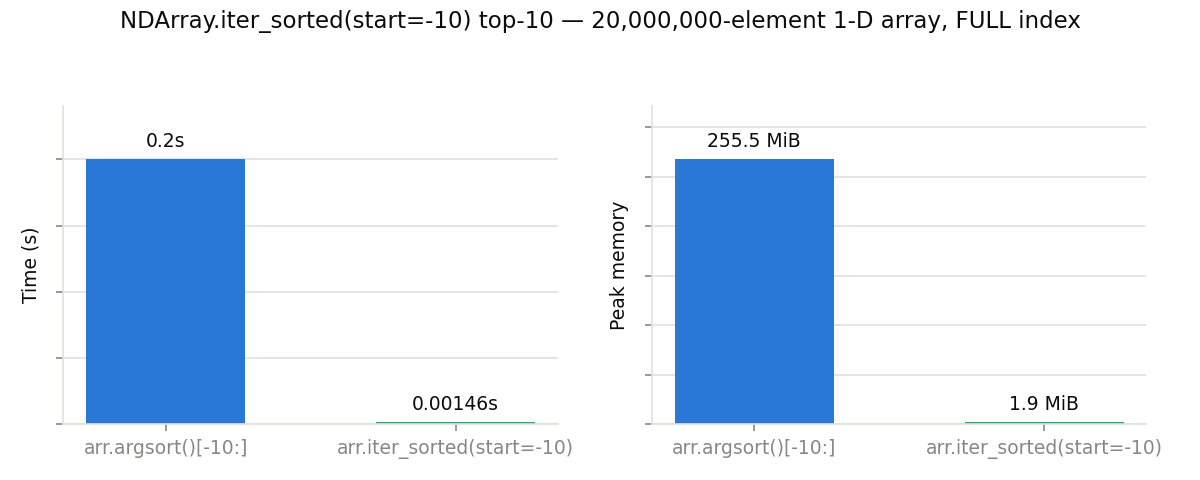
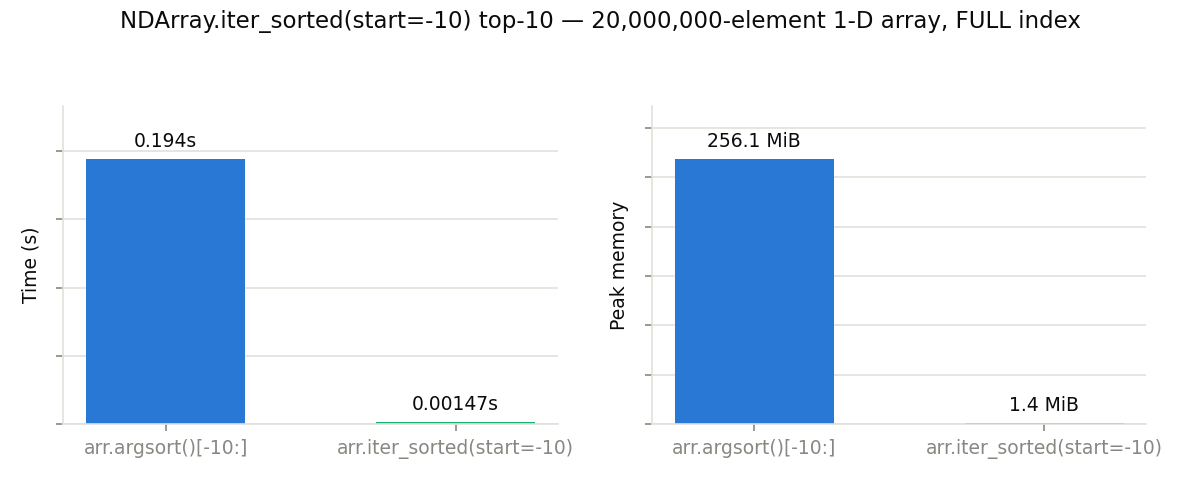
Updated figures and plots for optim tips guide

diff --git a/doc/guides/optimization_tips.md b/doc/guides/optimization_tips.md
@@ -18,7 +18,7 @@ a = blosc2.linspace(0, 1, N)
 
 ![blosc2.linspace() vs asarray(np.linspace())](optim_tips/tip_01_constructors.png)
 
-At 200M float64 elements, the constructor was **~1.6x faster** and used **~17x less peak memory**, and the memory gap widens with array size — the naive path's memory is O(N), while the constructor's stays roughly O(chunk size) for compressible enough data. The same applies to {func}`arange() <blosc2.arange>` and {func}`fromiter() <blosc2.fromiter>`.
+At 200M float64 elements, the constructor was **~1.5x faster** and used **~16x less peak memory**, and the memory gap widens with array size — the naive path's memory is O(N), while the constructor's stays roughly O(chunk size) for compressible enough data. The same applies to {func}`arange() <blosc2.arange>` and {func}`fromiter() <blosc2.fromiter>`.
 
 *Benchmark for this tip: [`tip_01_constructors.py`](https://github.com/Blosc/python-blosc2/blob/main/bench/optim_tips/tip_01_constructors.py)*
 
@@ -40,7 +40,7 @@ a = (rows + cols).compute(chunks=(CHUNK, COLS), urlpath="big.b2nd", mode="w")
 
 ![Broadcast lazy expression vs NumPy staging](optim_tips/tip_12_broadcast_build.png)
 
-Both produce bit-identical files. For a 200,000x500 float64 array (~800 MiB uncompressed), the broadcast expression used **~55x less peak memory** — the peak is a handful of chunks, not the whole array — at roughly the same speed. Memory is the point here: the naive path is O(N) and stops working when the array outgrows RAM, while the broadcast path doesn't care how big the result is.
+Both produce bit-identical files. For a 200,000x500 float64 array (~800 MiB uncompressed), the broadcast expression used **~47x less peak memory** — the peak is a handful of chunks, not the whole array — at the same speed. Memory is the point here: the naive path is O(N) and stops working when the array outgrows RAM, while the broadcast path doesn't care how big the result is.
 
 This works for any expression over operands blosc2 can broadcast, not just two `arange()`s: an existing on-disk {class}`~blosc2.NDArray` times a per-column scale vector, a 2D field plus a 1D offset, and so on. The shape rules are NumPy's; the {doc}`lazy expressions tutorial <../getting_started/tutorials/02.lazyarray-expressions>` has a worked example.
 
@@ -76,7 +76,7 @@ a = lazy.compute(cparams={"clevel": 0})
 
 ![DSL random kernel vs asarray(rng.integers())](optim_tips/tip_11_dsl_random.png)
 
-At 200M int32 elements, the DSL kernel was **~3.6x faster** and used **~2x less peak memory** than generating with NumPy and compressing via {func}`asarray() <blosc2.asarray>` — the peak is just the result itself, since the full NumPy staging array never exists.
+At 200M int32 elements, the DSL kernel was **~3.7x faster** and used **~2x less peak memory** than generating with NumPy and compressing via {func}`asarray() <blosc2.asarray>` — the peak is just the result itself, since the full NumPy staging array never exists.
 
 The output passes light uniformity checks against NumPy's PCG64 (the benchmark script prints them) — good enough for synthetic data, benchmarks and test fixtures, but this hand-rolled hash is *not* a substitute for a real generator. For statistically rigorous work such as Monte Carlo, use {doc}`blosc2.random <../reference/random>`, which gives you NumPy-quality streams (one independent `SeedSequence` per chunk) and keeps the chunk-parallel generation. The benchmark source explains the hash design and the DSL integer-arithmetic rules it relies on; see also the [DSL syntax reference](../reference/dsl_syntax.md).
 
@@ -149,7 +149,7 @@ big.slice((slice(bl, 2 * bl), slice(None)))
 
 ![Aligned vs unaligned reads, chunk and block level](optim_tips/tip_02_chunk_aligned_slicing.png)
 
-On a 16000×2000 float64 array, 400 chunk-sized reads aligned with the chunk grid were **~2.4× faster** than the same reads shifted half a chunk off-grid, and a chunk-aligned `slice()` was **~7× faster** again (no decompression), i.e. ~17× faster than the unaligned read. At the block level (with larger 1.6 MB blocks), 400 block-sized reads aligned with the block grid were **~1.9× faster**. However, `slice()` at block granularity was no faster at all — `slice()` has to produce a valid compressed array with its own chunk layout, so it can only skip decompression when both boundaries land on *chunk* boundaries; at block granularity it still decompresses and recompresses.
+On a 16000×2000 float64 array, 400 chunk-sized reads aligned with the chunk grid were **~2.3× faster** than the same reads shifted half a chunk off-grid, and a chunk-aligned `slice()` was **~11× faster** again (no decompression), i.e. ~24× faster than the unaligned read. At the block level (with larger 1.6 MB blocks), 400 block-sized reads aligned with the block grid were **~1.6× faster**. However, `slice()` at block granularity was no faster at all — `slice()` has to produce a valid compressed array with its own chunk layout, so it can only skip decompression when both boundaries land on *chunk* boundaries; at block granularity it still decompresses and recompresses.
 
 Practically: reach for `slice()` when both boundaries land on chunk boundaries and you want a compressed result. Off that path it is strictly more work than `arr[...]` — and if you wanted NumPy at the end, you have paid to compress something you are about to throw away.
 
@@ -214,8 +214,8 @@ list(arr.iter_sorted(start=9, stop=None, step=-1))  # bottom-10 descending
 
 ![NDArray.iter_sorted(start=-10) top-10](optim_tips/tip_03b_ndarray_iter_sorted.png)
 
-On a 20M-element float64 array, ``iter_sorted(start=-10)`` was **~137× faster**
-and used **~130× less peak memory** than ``argsort()[-10:]`` — the latter
+On a 20M-element float64 array, ``iter_sorted(start=-10)`` was **~132× faster**
+and used **~180× less peak memory** than ``argsort()[-10:]`` — the latter
 still materialises the full 20M-element positions array even when backed by a
 FULL index.
 
@@ -276,7 +276,7 @@ total = t["temperature"].sum(where=t.region == 3)
 
 ![col.sum(where=...) vs NumPy-style masking](optim_tips/tip_08_where_pushdown.png)
 
-On a 20M-row table, the pushed-down form was **~2.1x faster** and used **~7x less peak memory**. Predicates can combine several columns too: `t["amount"].sum(where=(t.price < 300) & (t.qty > 0))`.
+On a 20M-row table, the pushed-down form was **~2.2x faster** and used **~7x less peak memory**. Predicates can combine several columns too: `t["amount"].sum(where=(t.price < 300) & (t.qty > 0))`.
 
 *Benchmark for this tip: [`tip_08_where_pushdown.py`](https://github.com/Blosc/python-blosc2/blob/main/bench/optim_tips/tip_08_where_pushdown.py)*
 
@@ -294,7 +294,7 @@ arr = blosc2.open(path, mmap_mode="r")
 
 ![open(mmap_mode='r') vs plain open()](optim_tips/tip_06_mmap_read.png)
 
-Across 8,000 scattered slice reads, `mmap_mode="r"` was **~1.2x faster**; peak memory was essentially identical for this single-process, single-open workload.
+Across 8,000 scattered slice reads, `mmap_mode="r"` was **~1.2x faster**. The higher peak on the mmap side is an accounting artifact, not extra memory: RSS charges the mapped pages the process touched, which are the same page-cache pages the plain-`open()` path reads through — just billed to the kernel there.
 
 A single warm-cache process, as benchmarked here, is actually the *worst* case for showing mmap off — the payoff multiplies with several readers on the same file, which is the next tip.
 
@@ -344,7 +344,7 @@ t = blosc2.open("data.b2z", mmap_mode="r")
 
 ![Reading a .b2z in place vs extracting it first](optim_tips/tip_09_b2z_read_in_place.png)
 
-On a 10M-row table, opening in place and summing a column was **~3.4x faster** than extract-then-open (identical peak memory), and it leaves no unpacked copy behind. The multi-reader advantages are the same as in the [memory-map tip above](#memory-map-read-only-opens), only with a single mapping serving the whole dataset.
+On a 10M-row table, opening in place and summing a column was **~2.8x faster** than extract-then-open (identical peak memory), and it leaves no unpacked copy behind. The multi-reader advantages are the same as in the [memory-map tip above](#memory-map-read-only-opens), only with a single mapping serving the whole dataset.
 
 One asymmetry to keep in mind: `.b2z` is optimized for reading, while a *writable* `.b2z` is staged in a temporary directory and rezipped on close — for write-heavy workloads, build the table as `.b2d` and pack it with {meth}`to_b2z() <blosc2.CTable.to_b2z>` when it's ready to publish.
 
